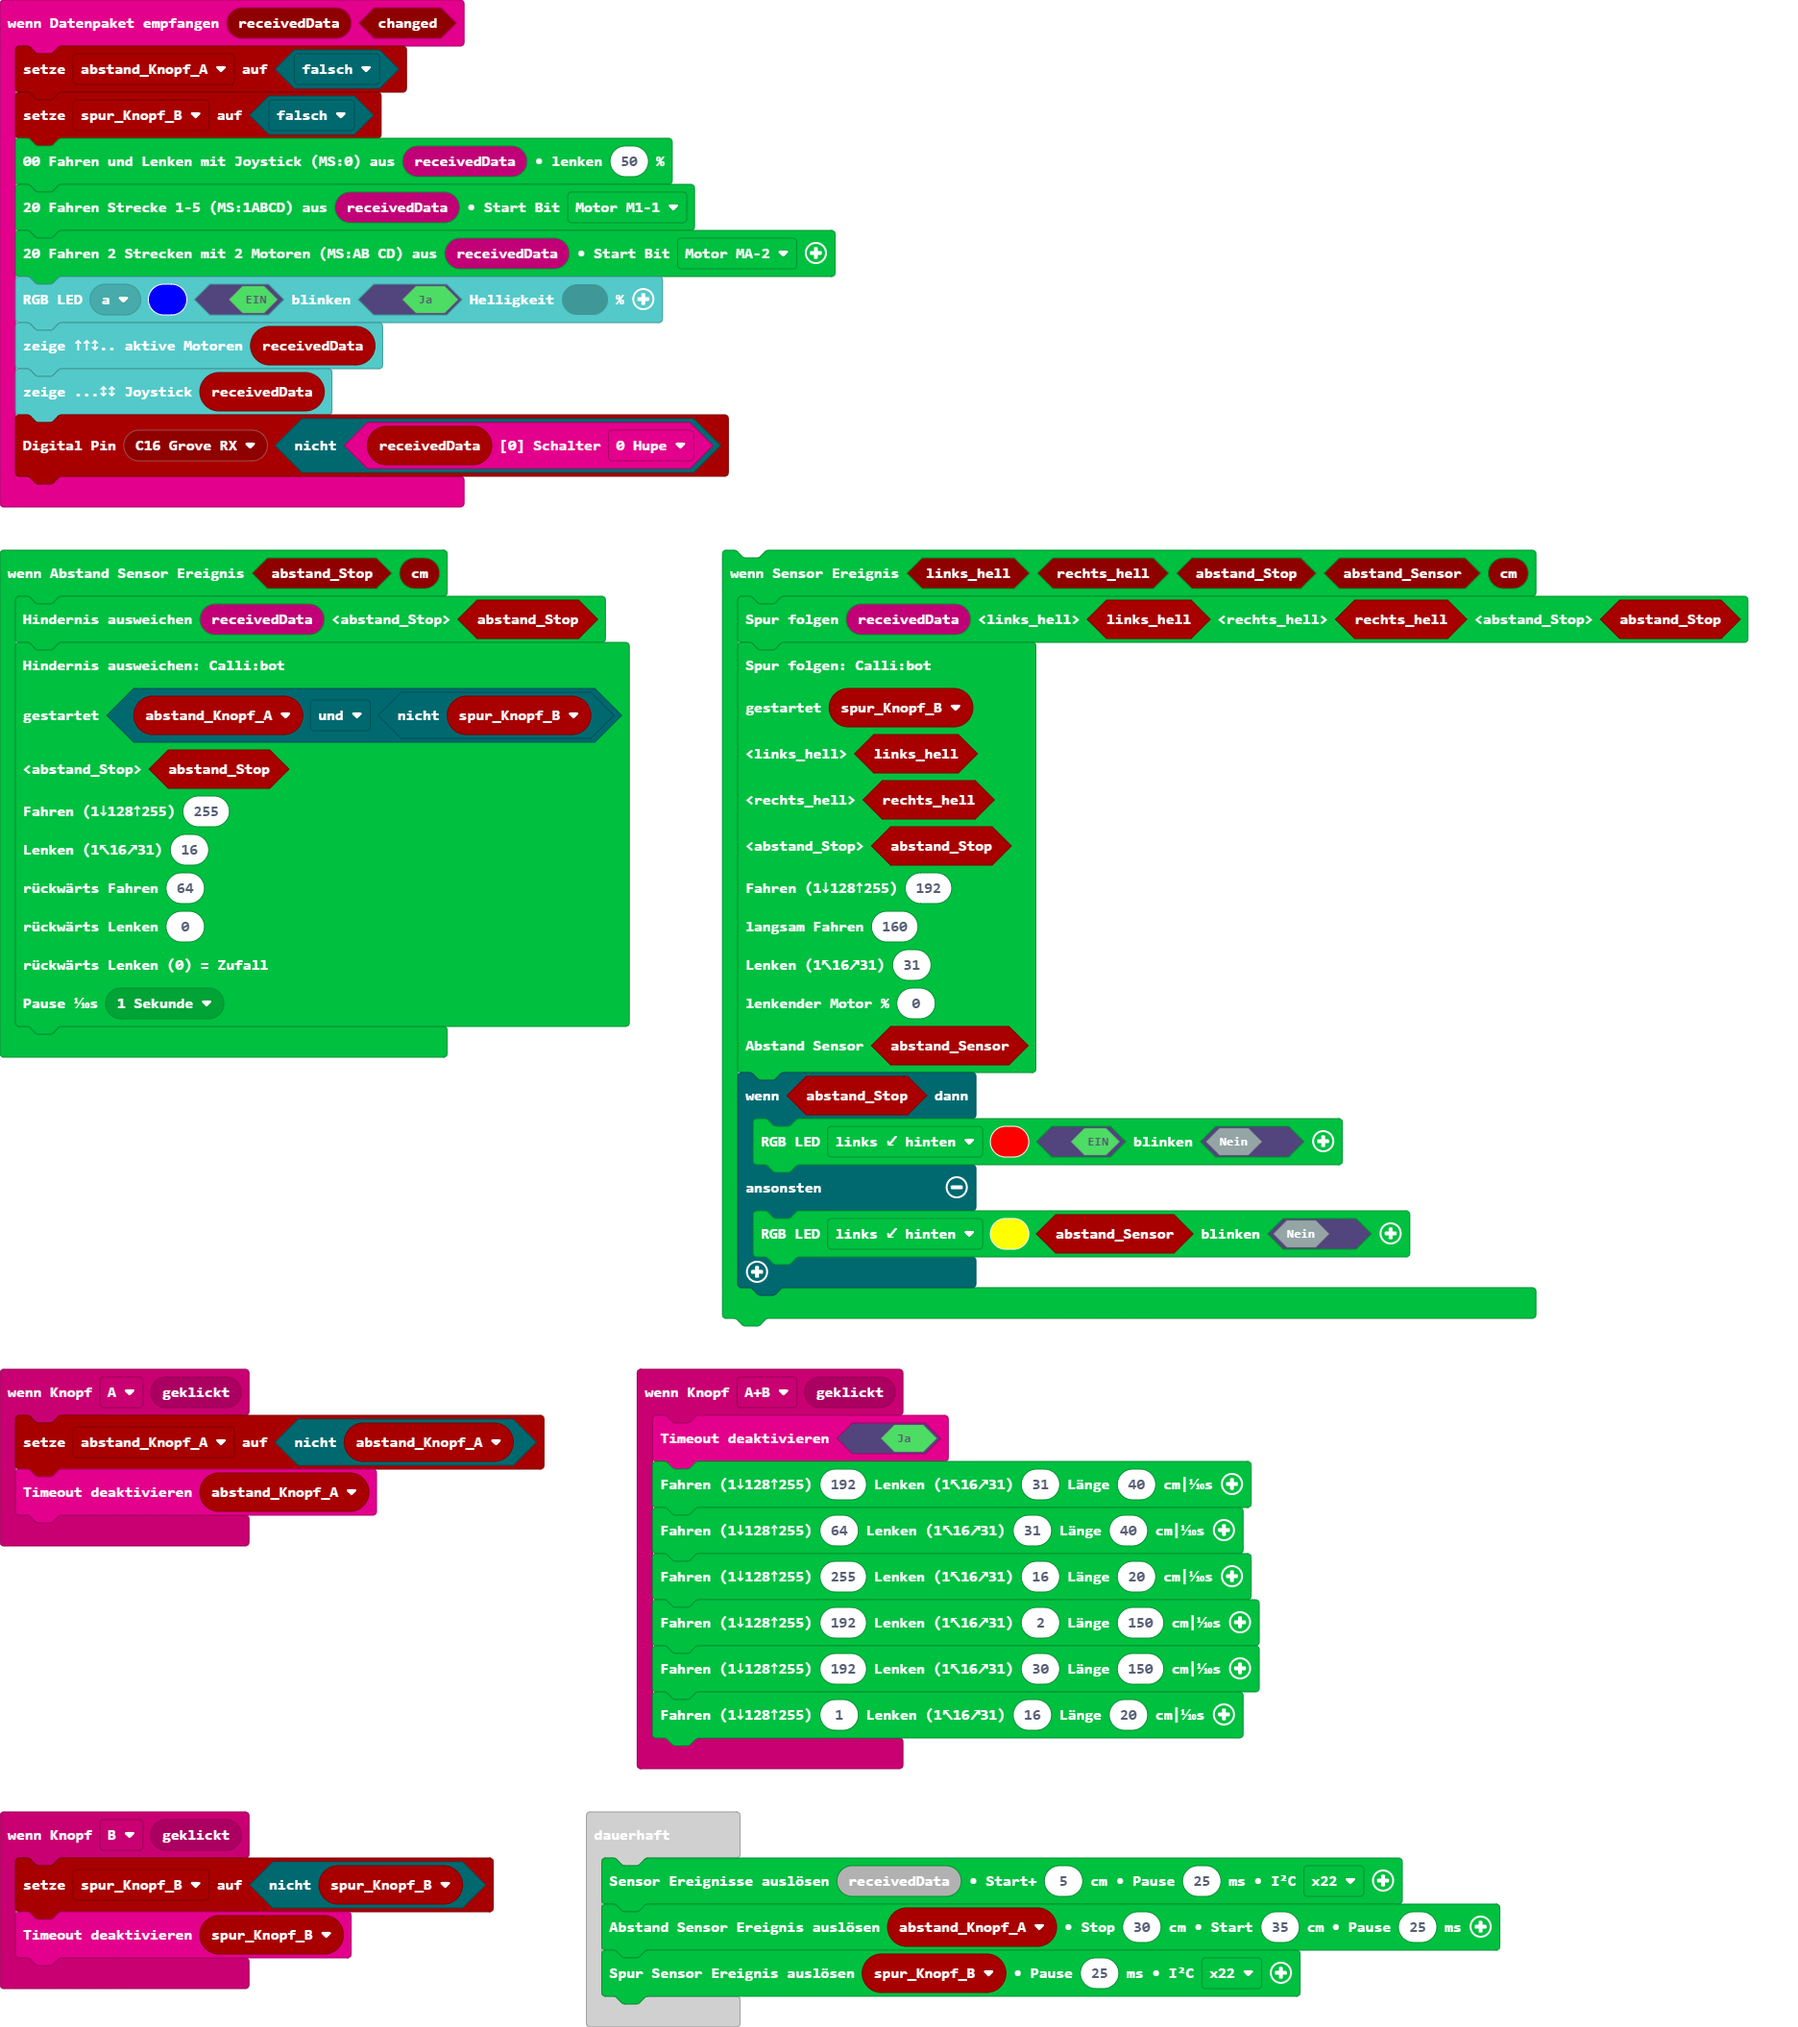
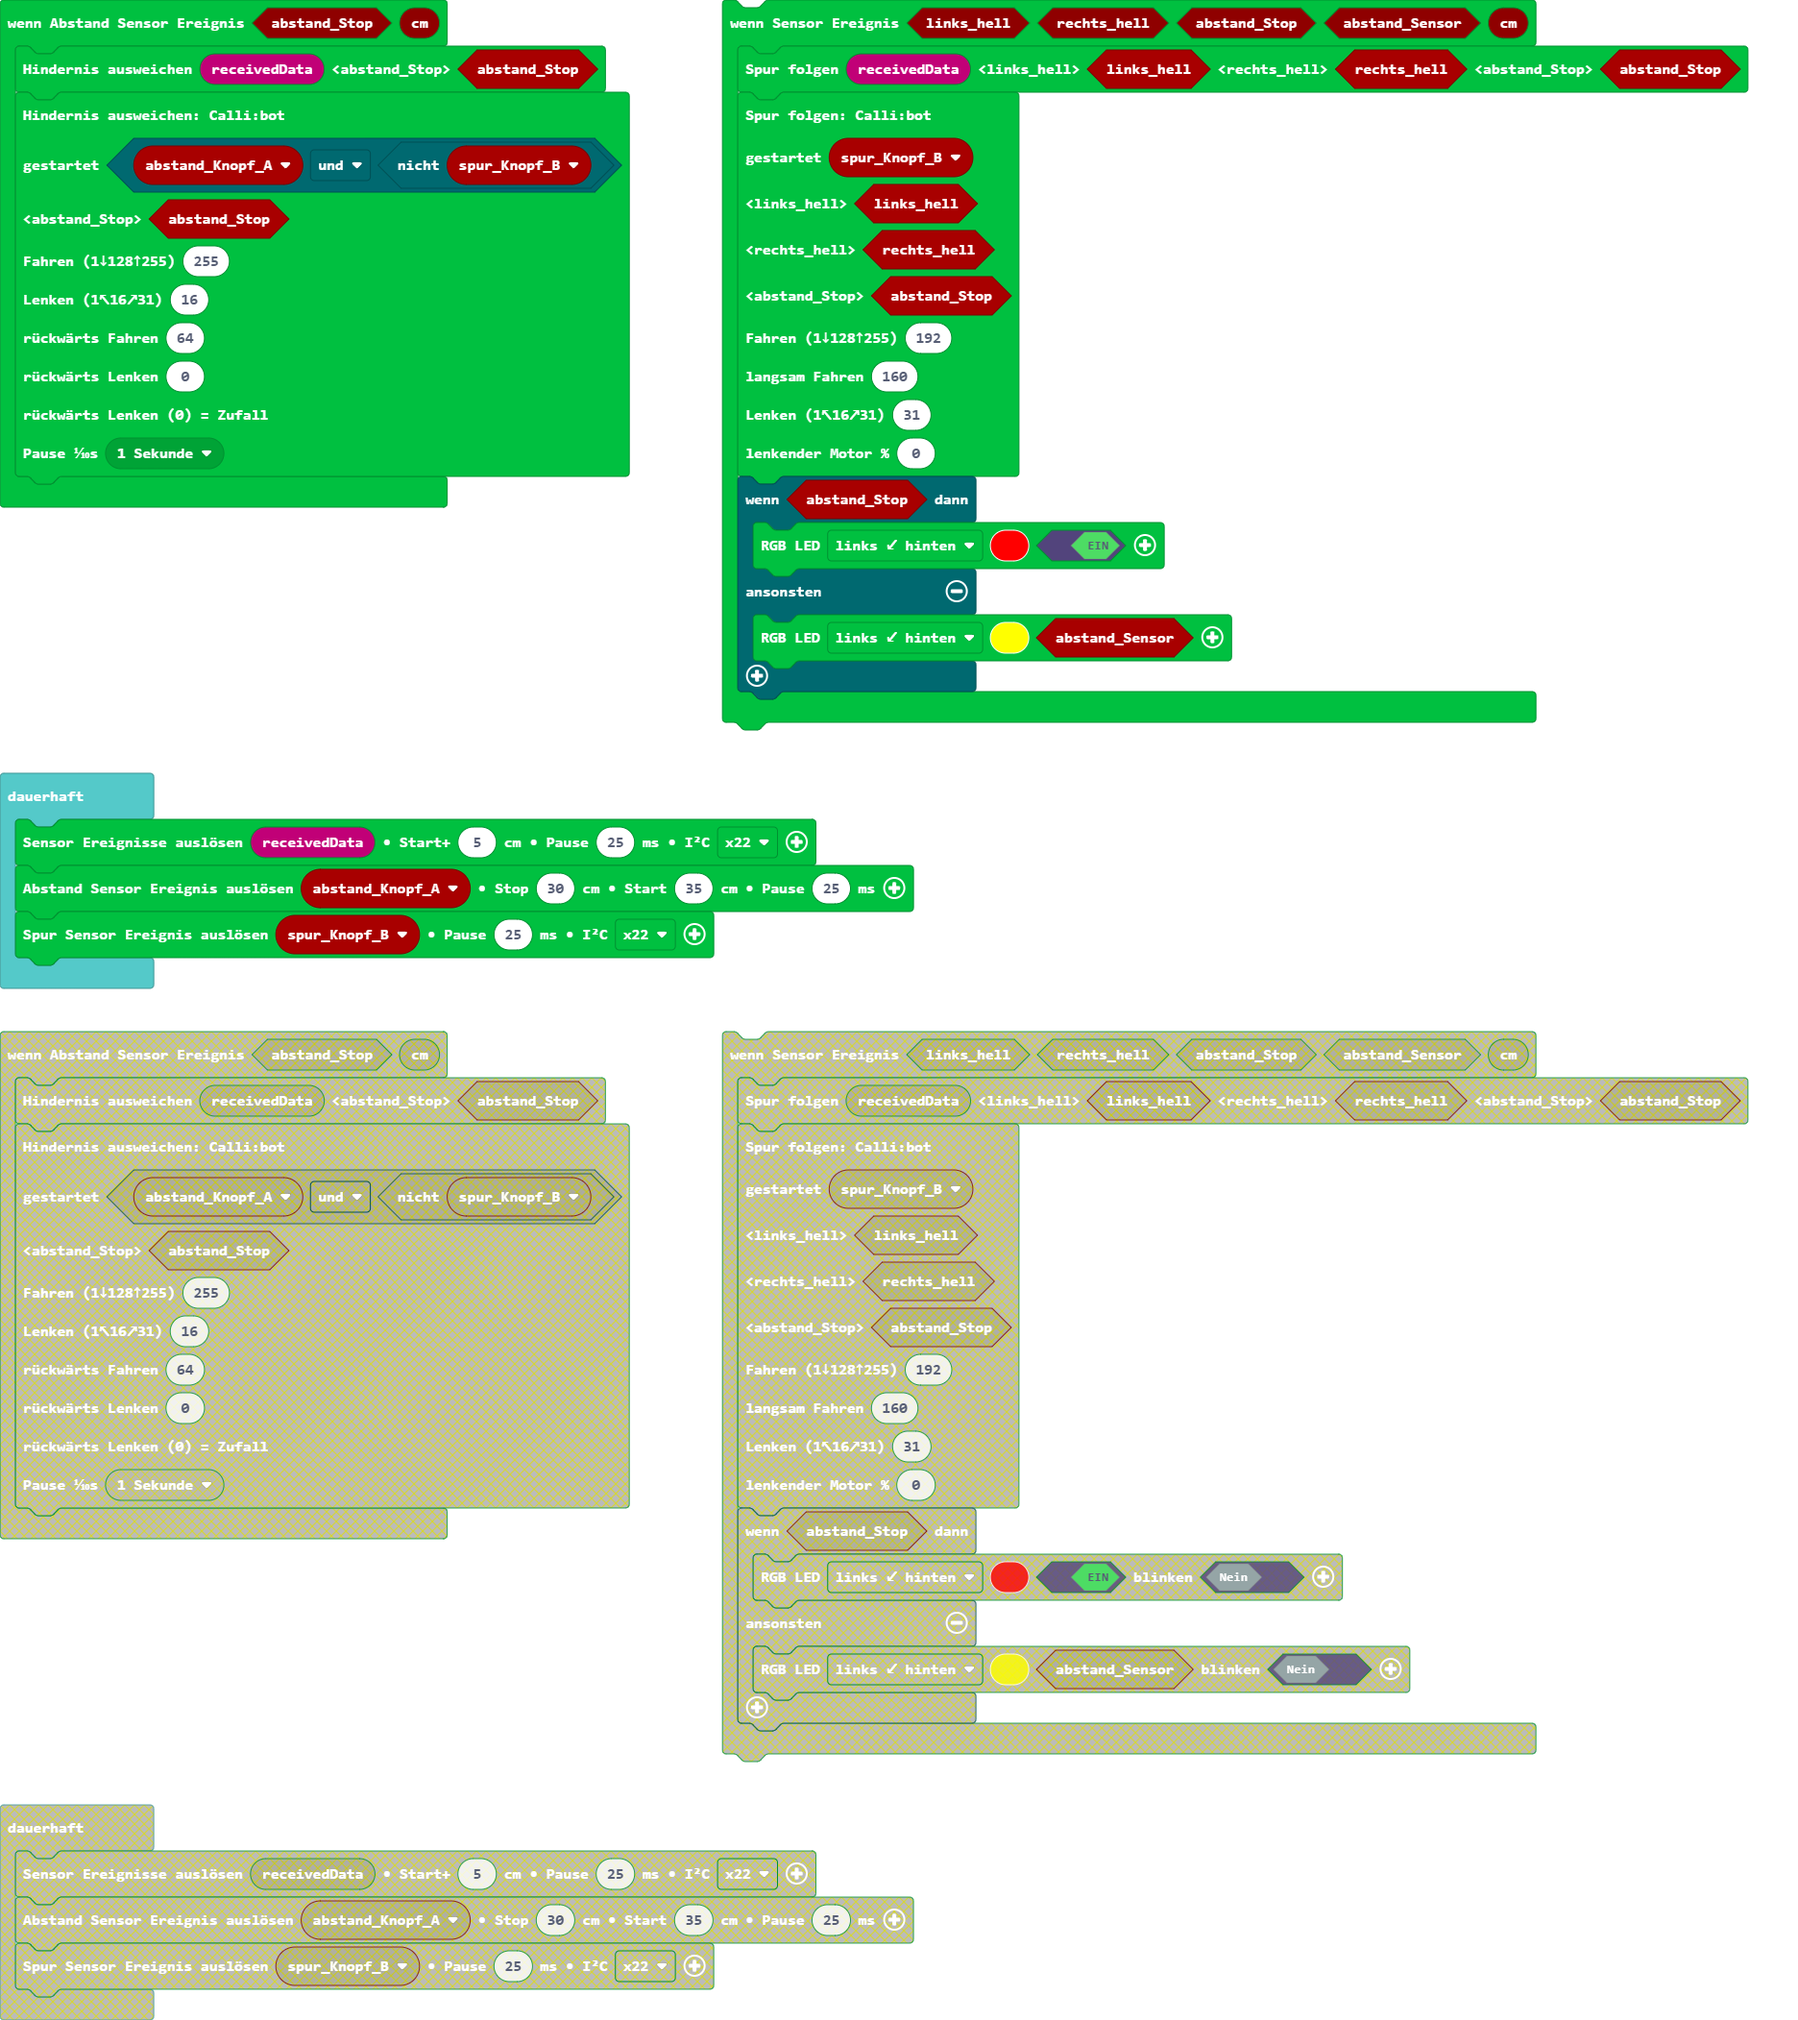
Aktualisiere pxt.json, main.blocks, main.ts

diff --git a/main.ts b/main.ts
@@ -54,8 +54,7 @@ cb2.onSensorEvent(function (links_hell, rechts_hell, abstand_Stop, abstand_Senso
     192,
     160,
     31,
-    0,
-    abstand_Sensor
+    0
     )
     if (abstand_Stop) {
         cb2.writecb2RgbLed(cb2.eRgbLed.lh, 0xff0000, true)
